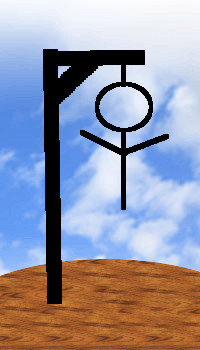
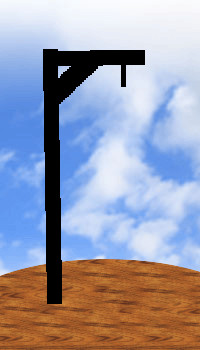
max Failure 6 to 10

Changed region(s): [[0.39, 0.2286, 0.84, 0.6]]

diff --git a/src/Hangman.js b/src/Hangman.js
@@ -7,13 +7,16 @@ import img3 from "./3.jpg";
 import img4 from "./4.jpg";
 import img5 from "./5.jpg";
 import img6 from "./6.jpg";
-
+import img7 from "./7.jpg";
+import img8 from "./8.jpg";
+import img9 from "./9.jpg";
+import img10 from "./10.jpg";
 import { randomWord, fetchWords } from "./api";
 
 class Hangman extends Component {
   static defaultProps = {
-    maxWrong: 6,
-    images: [img0, img1, img2, img3, img4, img5, img6],
+    maxWrong: 9,
+    images: [img0, img1, img2, img3, img4, img5, img6, img7, img8, img9, img10],
   };
   constructor(props) {
     super(props);
@@ -28,8 +31,7 @@ class Hangman extends Component {
     this.restart = this.restart.bind(this);
   }
 
-  //die lädt die Wörter
-  //das führt react aus
+  //die lädt die Wörter  //das führt react aus
   async componentDidMount() {
     const words = await fetchWords();
     console.log(words);
@@ -53,6 +55,7 @@ class Hangman extends Component {
       return;
     }
   }
+
   guessedWord() {
     if (this.state.limit === false && this.state.answer) {
       const guessedWord = this.state.answer
@@ -68,6 +71,7 @@ class Hangman extends Component {
       return this.state.answer;
     }
   }
+
   handleGuess(evt) {
     if (this.state.limit) {
       return;
@@ -89,6 +93,7 @@ class Hangman extends Component {
       checkLossCondition,
     );
   }
+
   generateButtons() {
     return "abcdefghijklmnopqrstuvwxyz".split("").map((ltr) => (
       <button
@@ -100,12 +105,16 @@ class Hangman extends Component {
       </button>
     ));
   }
+
   render() {
     return (
       <div className='Hangman'>
         <h1>Hangman</h1>
         {!this.state.limit && (
-          <img src={this.props.images[this.state.nWrong]} />
+          <img
+            src={this.props.images[this.state.nWrong]}
+            alt='hangman-images'
+          />
         )}
         {this.state.limit && <p>YOU LOSE ㅠ_ㅠ</p>}
         {this.state.limit && (

diff --git a/src/api.js b/src/api.js
@@ -5,6 +5,7 @@ export const fetchWords = async () => {
   // ohne index.mjs
   return await request.json();
 };
+
 export const randomWord = (words) => {
   return words[Math.floor(Math.random() * words.length)];
 };
